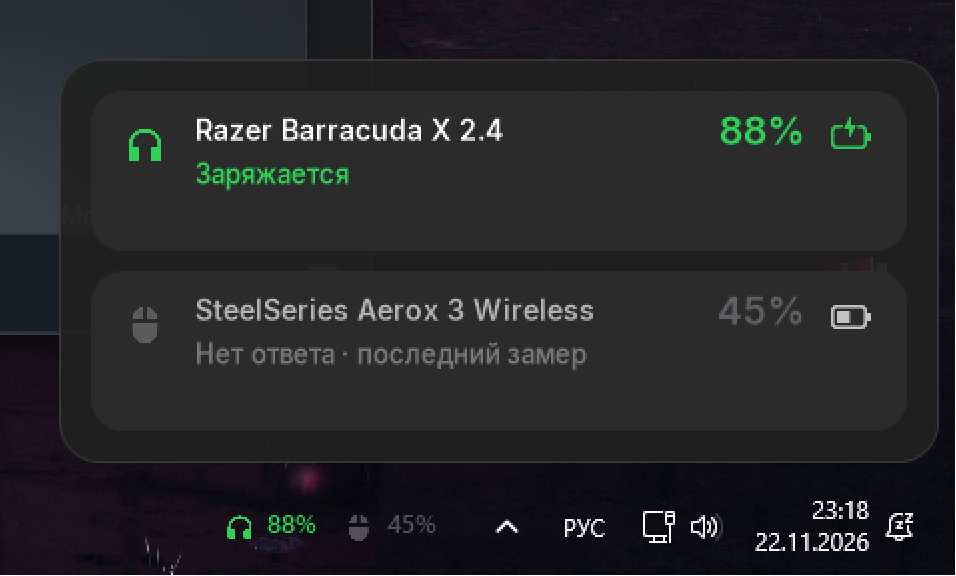
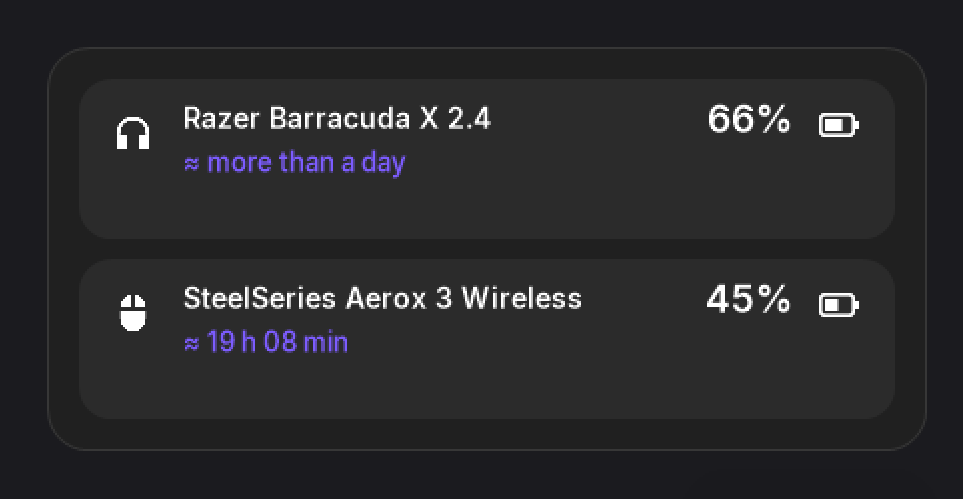
Refresh the README with an English screenshot and the RU/EN UI notes
- New English panel screenshot (real 1.0.5 UI).
- Describe the English/Russian UI, the Language menu and the Auto rule (Russian Windows -> Russian,
  everything else -> English).
- Translate the remaining-time examples in the README to English and tidy the install/query notes.
- Drop the pill hover timer: it was never started, so the branch was dead code.

diff --git a/src/ui.cpp b/src/ui.cpp
@@ -24,7 +24,6 @@ namespace {
 
 constexpr UINT WM_APP_REFRESH_UI = WM_APP + 40;
 
-constexpr int kPillTimerHover = 1;
 constexpr int kPanelTimerHide = 2;
 constexpr int kPanelTimerAnim = 3;
 
@@ -889,21 +888,14 @@ LRESULT CALLBACK PillProc(HWND h, UINT msg, WPARAM wp, LPARAM lp) {
                 g.pillHover = true;
                 TrackLeave(h);
                 RenderPill();
-                        }
+            }
             return 0;
         case WM_MOUSELEAVE:
             g.pillHover = false;
-            KillTimer(h, kPillTimerHover);
             RenderPill();
             // Leaving the pill also counts as "away": the panel closes shortly unless the cursor
             // lands on it (then the panel's own WM_MOUSEMOVE cancels the timer).
             if (g.visible && g.panel) SetTimer(g.panel, kPanelTimerHide, 200, nullptr);
-            return 0;
-        case WM_TIMER:
-            if (wp == kPillTimerHover) {
-                KillTimer(h, kPillTimerHover);
-                if (g.pillHover && !g.visible) ShowPanelInternal();
-            }
             return 0;
         case WM_LBUTTONUP: {
             // Debounce: a burst of clicks is one gesture, not a flicker of open/close animations.

diff --git a/README.md b/README.md
@@ -9,7 +9,7 @@
 Battery level **and remaining time** for wireless mice, headsets and controllers — right on the
 Windows taskbar, without vendor software.
 
-![JuiceBar panel](docs/screenshot.png)
+![JuiceBar panel in English](docs/screenshot.png)
 
 A small pill floats above the clock (or sits on the taskbar, if you prefer) and shows the real level
 reported by each device. Click it and a compact panel opens with the device name, the estimated time
@@ -35,7 +35,10 @@ measurement, and it is labelled while the data is still thin.
 - **Starts with Windows.** Enabled on the first run; a checkbox in the right-click menu turns it
   off again (a single `HKCU\…\Run` value, no service, no admin rights).
 - **Follows Windows.** Light/dark theme comes from the taskbar and updates live; 100–200 % DPI
-  aware; Русский / English UI, switchable from the menu.
+  aware.
+- **English and Russian UI.** A Russian Windows starts in Russian, everything else in English;
+  right-click → Language switches and saves the choice. Menus, panel labels and duration strings
+  are translated.
 
 ## Install
 
@@ -47,9 +50,9 @@ another folder (for example `D:\Apps\JuiceBar`).
 Release binaries are built by GitHub Actions from the tagged commit; the workflow runs the unit
 tests, then produces the installer.
 
-To remove the app, use *Settings → Apps → Installed apps → JuiceBar* or the uninstaller in the
-install folder. Your settings and history are kept; delete `%APPDATA%\JuiceBar` and
-`%LOCALAPPDATA%\JuiceBar` to remove them too.
+To remove the app, use *Settings → Apps → Installed apps → JuiceBar* (or *Apps & features* on
+Windows 10) or the uninstaller in the install folder. Your settings and history are kept; delete
+`%APPDATA%\JuiceBar` and `%LOCALAPPDATA%\JuiceBar` to remove them too.
 
 ## Supported devices
 
@@ -64,9 +67,9 @@ install folder. Your settings and history are kept; delete `%APPDATA%\JuiceBar` 
 | Xbox controllers (XInput) | wireless | coarse level (empty / low / medium / full → 5 / 20 / 60 / 100 %) |
 | Bluetooth devices with a Windows battery level | Bluetooth LE / classic | the level Windows itself exposes (headsets, earbuds, mice, keyboards) |
 
-Everything else is ignored: JuiceBar only sends read-only queries to devices it recognises.
-Speakers that do not publish a battery level (most JBL, for example) cannot be shown — Windows has
-no number to read.
+Everything else is ignored: JuiceBar only queries the devices it recognises and never changes their
+settings. Speakers that do not publish a battery level (most JBL, for example) cannot be shown —
+Windows has no number to read.
 
 ## Accuracy
 
@@ -89,10 +92,10 @@ sessions break the window).
 
 | State | Panel text |
 |---|---|
-| less than 15 min of data | `Калибровка · ещё N мин` |
-| steady level | `Расход стабилен` |
-| forecast | `≈ 3 ч 20 мин` |
-| charging | `Заряжается · до полного 1 ч 05 мин` when the charge rate is known |
+| less than 15 min of data | `Calibrating · 12 min` |
+| steady level | `Drain is steady` |
+| forecast | `≈ 3 h 20 min` |
+| charging | `Charging · 1 h 05 min` when the charge rate is known |
 
 ## Polling
 
